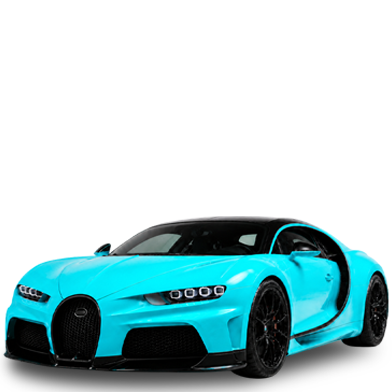
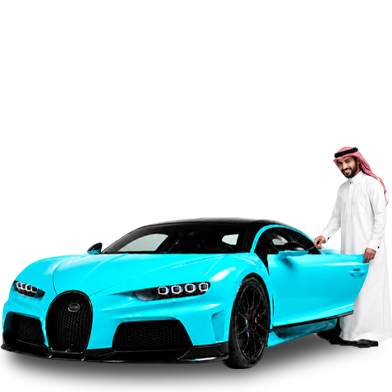
add new onboarding images

Changed region(s): [[0.0, 0.3673, 1.0, 1.0]]

diff --git a/lib/core/utils/app_assets.dart b/lib/core/utils/app_assets.dart
@@ -24,15 +24,48 @@ abstract class AppAssets {
   // Auth
   static const String logo = 'assets/images/app_logo.png';
   static const String logoTransparent = 'assets/images/logo_transparent.png';
+  static const String authBackImage = 'assets/images/auth_background.png';
+  static const String ksaFlag = 'assets/svg/ksa.svg';
+  static const String usFlag = 'assets/svg/us.svg';
+  static const String offline = 'assets/svg/offline.svg';
+
+  // Onboarding
   static const String onboarding1 = 'assets/images/onboarding_1.png';
   static const String onboarding2 = 'assets/images/onboarding_2.png';
   static const String onboarding3 = 'assets/images/onboarding_3.png';
   static const String onboardingShadowTop =
       'assets/images/onboarding_shadow_top.png';
-  static const String authBackImage = 'assets/images/auth_background.png';
-  static const String ksaFlag = 'assets/svg/ksa.svg';
-  static const String usFlag = 'assets/svg/us.svg';
-  static const String offline = 'assets/svg/offline.svg';
+  static const String onPOneIOneEn = 'assets/images/on_pOne_iOne_en.png';
+  static const String onPOneITwoEn = 'assets/images/on_pOne_iTwo_en.png';
+  static const String onPOneIThreeEn = 'assets/images/on_pOne_iThree_en.png';
+  static const String onPOneIFourEn = 'assets/images/on_pOne_iFour_en.png';
+  static const String onPOneIFiveEn = 'assets/images/on_pOne_iFive_en.png';
+
+  static const String onPTwoIOneEn = 'assets/images/on_pTwo_iOne_en.png';
+  static const String onPTwoITwoEn = 'assets/images/on_pTwo_iTwo_en.png';
+  static const String onPTwoIThreeEn = 'assets/images/on_pTwo_iThree_en.png';
+  static const String onPTwoIFourEn = 'assets/images/on_pTwo_iFour_en.png';
+
+  static const String onPThreeIOneEn = 'assets/images/on_pThree_iOne_en.png';
+  static const String onPThreeITwoEn = 'assets/images/on_pThree_iTwo_en.png';
+  static const String onPThreeIThreeEn =
+      'assets/images/on_pThree_iThree_en.png';
+
+  static const String onPOneIOneAr = 'assets/images/on_pOne_iOne_ar.png';
+  static const String onPOneITwoAr = 'assets/images/on_pOne_iTwo_ar.png';
+  static const String onPOneIThreeAr = 'assets/images/on_pOne_iThree_ar.png';
+  static const String onPOneIFourAr = 'assets/images/on_pOne_iFour_ar.png';
+  static const String onPOneIFiveAr = 'assets/images/on_pOne_iFive_ar.png';
+
+  static const String onPTwoIOneAr = 'assets/images/on_pTwo_iOne_ar.png';
+  static const String onPTwoITwoAr = 'assets/images/on_pTwo_iTwo_ar.png';
+  static const String onPTwoIThreeAr = 'assets/images/on_pTwo_iThree_ar.png';
+  static const String onPTwoIFourAr = 'assets/images/on_pTwo_iFour_ar.png';
+
+  static const String onPThreeIOneAr = 'assets/images/on_pThree_iOne_ar.png';
+  static const String onPThreeITwoAr = 'assets/images/on_pThree_iTwo_ar.png';
+  static const String onPThreeIThreeAr =
+      'assets/images/on_pThree_iThree_ar.png';
 
   // Bottom Navigation Bar Icons
   static const String homeEnabled = 'assets/svg/home_enabled.svg';
